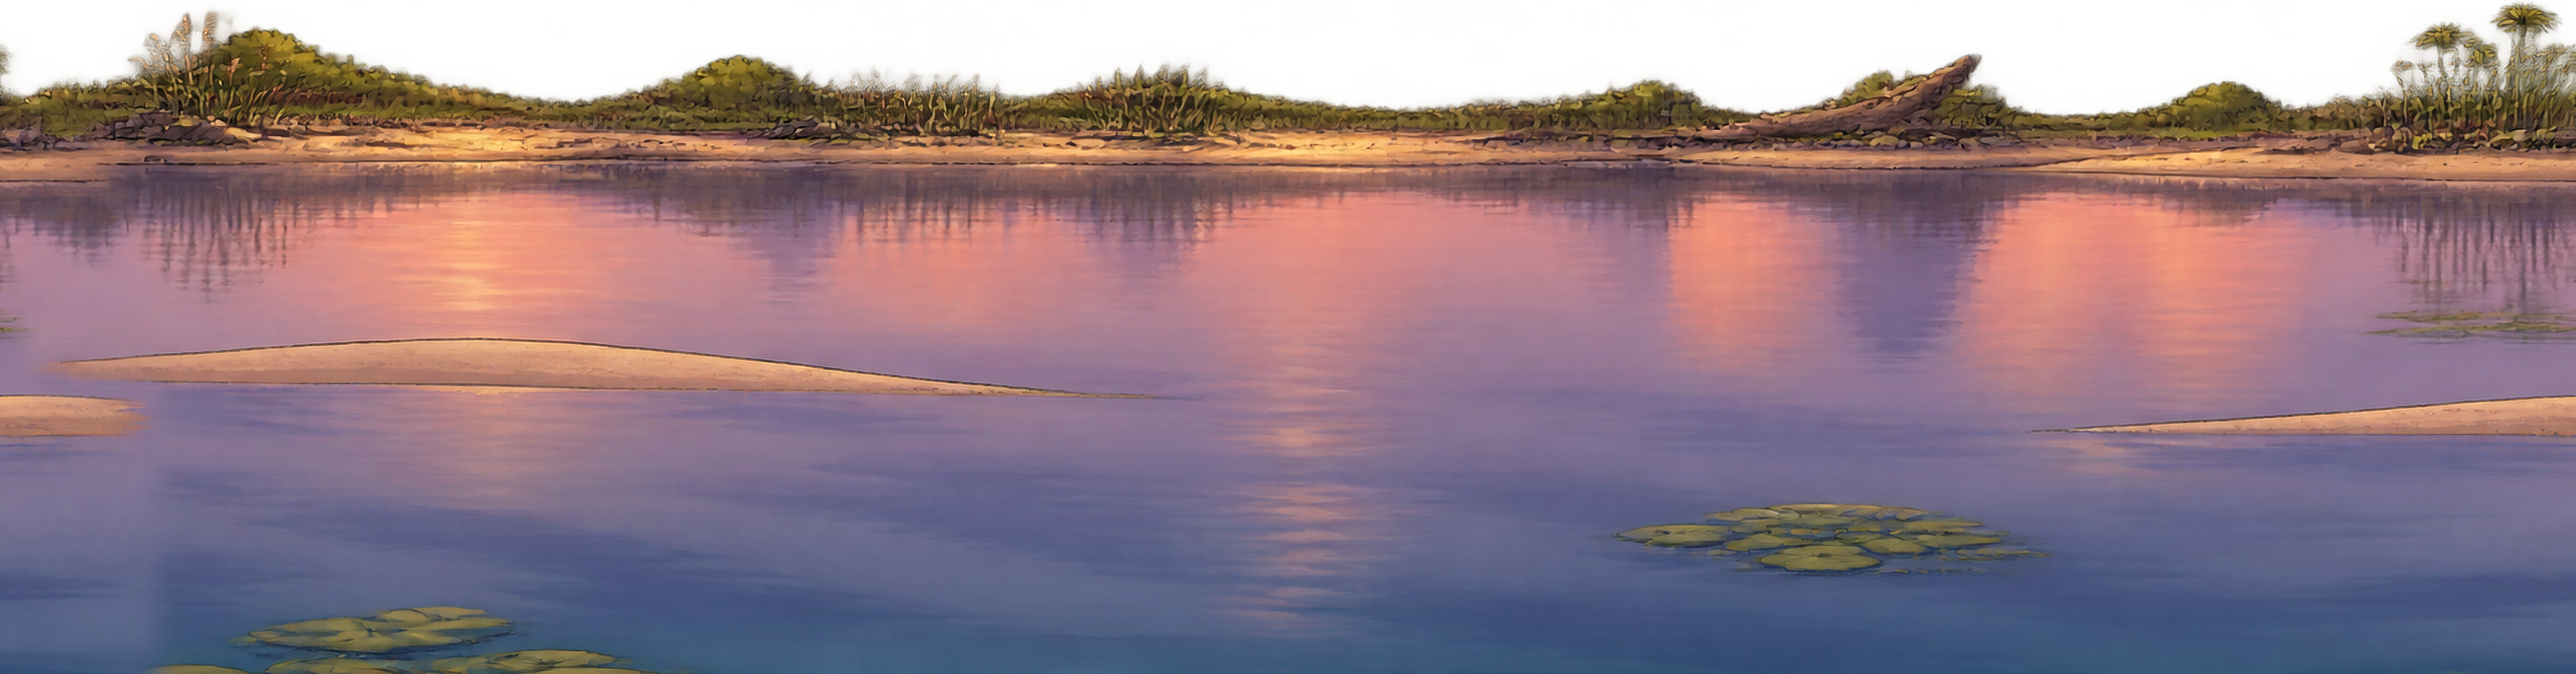
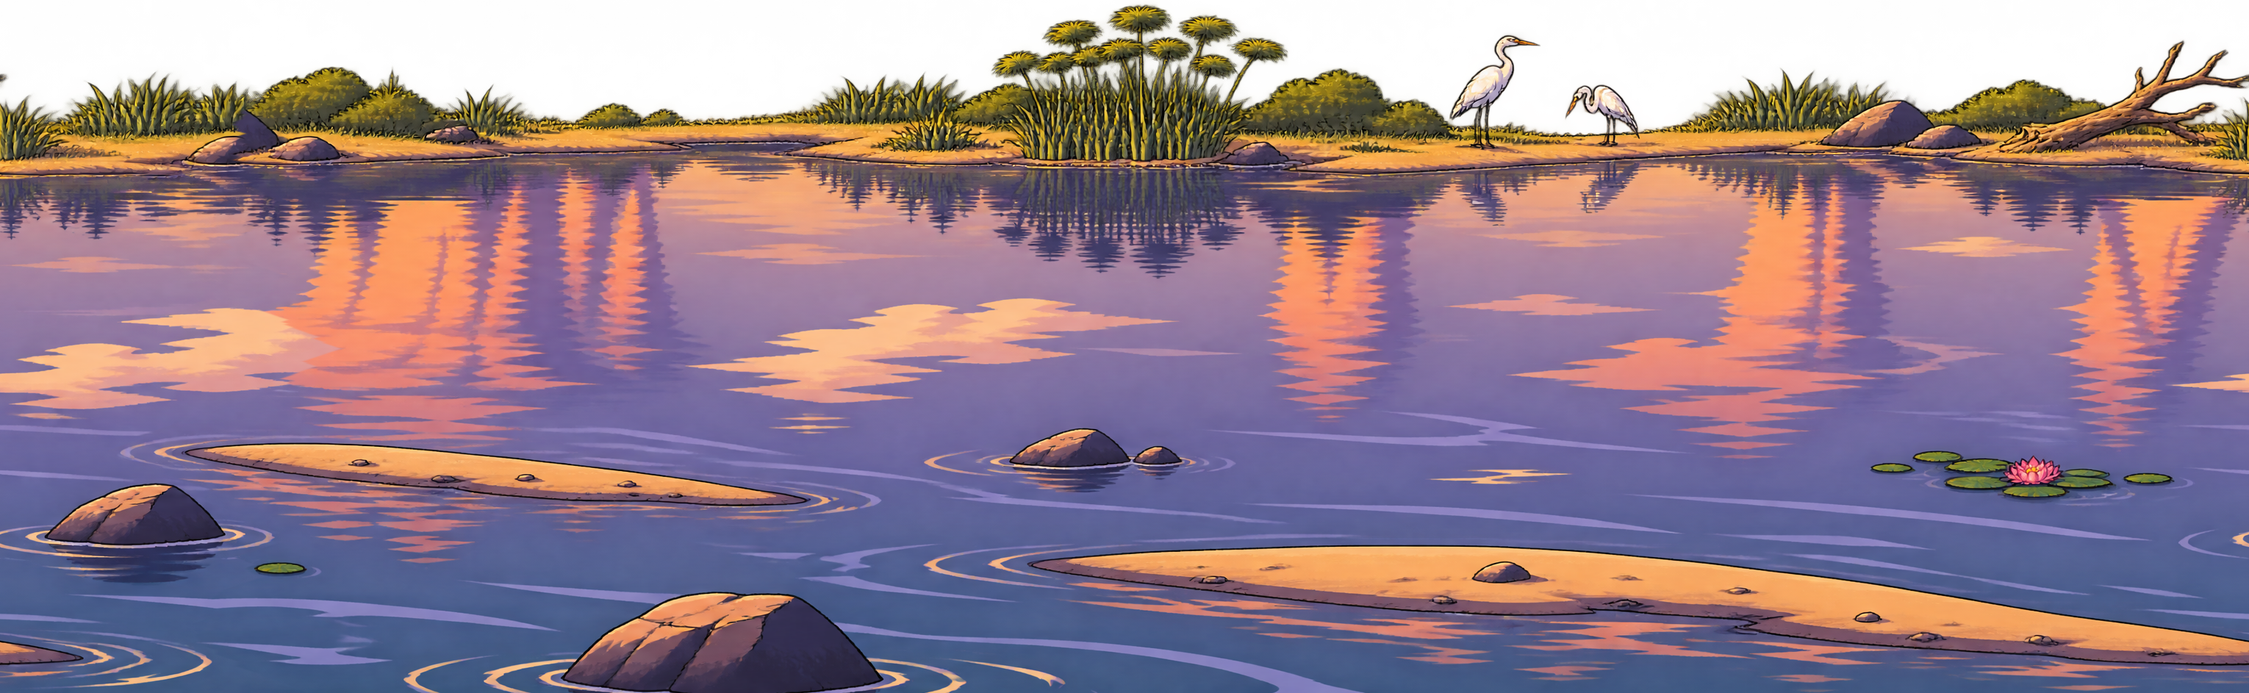
Blind round 20 (7.22 against 8.68, worse than round 19; its judge said of the throw "both fighters are hard black-inked flat cel sprites, while the plain behind them is a soft, lineless, slightly smeared painting; the dark blurred bush blobs … look out of focus beside the crisp sprites", "cream seed

diff --git a/New/tools/art/kie/world.py b/New/tools/art/kie/world.py
@@ -49,11 +49,12 @@ HEARTH_TIP, HEARTH_SLOPE, HEARTH_STONES = 0.672, 0.55, 0.8  # the hearth's logs:
 FLAME_K = 0.46  # the flames, of fire3's px: about 215 px across on the 308 px hearth
 FLAME_CELL = (308, 440)  # px, a frame of home_flames.png: the hearth's width
 FLAME_FOOT = 52  # px over the cell's bottom the flames stand: behind the logs, on the embers
-PLAIN_ENDS = 96  # px cut off each end of a wide painting (plain, river)
-PLAIN_ROWS = 600  # px of the plain kept under its horizon (SavannaView: the rest is under the screen)
+PLAIN_ENDS = 70  # px cut off each end of a wide painting (plain, river: the painter smears its two ends into level streaks)
+PLAIN_ROWS = 545  # px of the plain kept under its horizon (SavannaView: the rest is under the screen)
+PLAIN_JOIN = 600  # px of each end its join may wander in (a drawn bush or rock is one end's or the other's, whole)
+PLAIN_SLIPS = [((975, 1095), (3250, 3500), 235), ((905, 960), (3350, 3460), 100)]  # (rows, columns, columns to its left the grass is taken from)
 RIVER_ROWS = 760  # px of the river kept under its far waterline
-RIVER_ENDS = 40  # px cut off each of its ends (its join keeps clear of the streaks along the bank's ends)
-RIVER_STEER = [(610, 36), (706, 216)]  # (river2's row, the join's column from there down)
+RIVER_JOIN = 640
 FRONT_CELL = (440, 390)  # px: SavannaView.FRONT_PROP at 1.7 px a unit (dark shapes passing fast: no finer)
 
 
@@ -84,25 +85,32 @@ def fade(a: np.ndarray, b: int) -> np.ndarray:
     return np.concatenate([zone, a[:, b:-b]], axis=1)
 
 
-def seam(a: np.ndarray, b: int, feather=5.0, steer=()) -> np.ndarray:
+def seam(a: np.ndarray, b: int, feather=5.0, steer=(), reach=1, lean=None, match=0) -> np.ndarray:
     """Repeats left to right: the last `b` columns joined to the first `b` along the top-to-bottom path where the two
     differ least (a blade of grass is one end's or the other's, never a ghost of both). `steer`: (row, column) pairs:
-    from that row down the path runs at that column (open water: round a sandbar's tip, not through it)."""
+    from that row down the path runs at that column (open water: round a sandbar's tip, not through it). `reach`: the
+    columns the path may step aside in a row (drawn bushes and rocks stand in both ends: it winds between them).
+    `lean`: (row, column): from that row down the path is drawn toward that column (which end's things stand there).
+    `match`: the two ends' tones are brought to each other over this many px on each side of the path (the painter
+    left one end's grass lighter: a faint upright step where the picture repeats)."""
     end, start = a[:, -b:], a[:, :b]
-    cost = ((end - start) ** 2).sum(axis=-1) + 1e-5
-    lo, hi = int(b * 0.12), int(b * 0.88)
+    cost = ((end - start) ** 2).sum(axis=-1)
+    cost = ndi.maximum_filter(cost, size=(1, 9)) + 1e-5  # (clear of an object's outline, not along it)
+    if lean is not None:
+        cost[lean[0]:] += 0.004 * np.abs(np.arange(b) - lean[1])[None, :]
+    lo, hi = int(b * 0.04), int(b * 0.96)
     cost[:, :lo] += 10.0
     cost[:, hi:] += 10.0
     acc = cost.copy()
     for y in range(1, acc.shape[0]):
-        prev = acc[y - 1]
-        acc[y] += np.minimum(prev, np.minimum(np.roll(prev, 1), np.roll(prev, -1)))
+        acc[y] += ndi.minimum_filter1d(acc[y - 1], 2 * reach + 1, mode="nearest")
     path = np.zeros(acc.shape[0], np.int64)
     path[-1] = int(np.argmin(acc[-1]))
     for y in range(acc.shape[0] - 2, -1, -1):
         x = path[y + 1]
-        x0, x1 = max(x - 1, 0), min(x + 2, b)
+        x0, x1 = max(x - reach, 0), min(x + reach + 1, b)
         path[y] = x0 + int(np.argmin(acc[y, x0:x1]))
+    seam.path = path
     for row, column in steer:
         path[row:] = column
     m = (np.arange(b)[None, :] > path[:, None]).astype(np.float32)  # 1: the start's side
@@ -111,7 +119,17 @@ def seam(a: np.ndarray, b: int, feather=5.0, steer=()) -> np.ndarray:
         m[steer[0][0] - 40:] = ndi.gaussian_filter1d(m, feather, axis=0)[steer[0][0] - 40:]
     m = m[..., None]
     zone = end * (1 - m) + start * m
-    return np.concatenate([zone, a[:, b:-b]], axis=1)
+    out = np.concatenate([zone, a[:, b:-b]], axis=1)
+    if match:
+        near = np.clip(path[:, None] + np.arange(-30, 31)[None, :], 0, b - 1)
+        d = np.take_along_axis((end - start)[..., :3], near[..., None], axis=1).mean(axis=1)  # the step, row by row
+        d = np.clip(ndi.gaussian_filter1d(d, 20.0, axis=0), -0.12, 0.12)[:, None, :] * 0.5
+        out = np.roll(out, match, axis=1)  # (the path's left side is the picture's far end)
+        off = (np.arange(out.shape[1])[None, :] - (path[:, None] + match)) / float(match)
+        w = np.where(off >= 0, np.clip(1 - off, 0, 1) ** 2, -np.clip(1 + off, 0, 1) ** 2)[..., None]
+        out[..., :3] = np.clip(out[..., :3] + d * w * out[..., 3:4], 0.0, 1.0)
+        out = np.roll(out, -match, axis=1)
+    return out
 
 
 def top_edge(a: np.ndarray, share=0.5) -> int:
@@ -150,10 +168,23 @@ def plain() -> None:
     # from right behind the characters to the horizon: interlocking swells, a game trail winding away to one far
     # point, the far band in the last sun with its groves, its herds and a village, the nearer plain in the evening's
     # shade. `plain`, the one before it, was the far plain alone, seen behind three ridges)
-    a = load("plain2")[:, PLAIN_ENDS:-PLAIN_ENDS]  # (the painter smears a picture's two ends into level streaks)
+    # (blind round 20: "hard black-inked flat cel sprites, while the plain behind them is a soft, lineless, slightly
+    # smeared painting ... dark blurred bush blobs": "draw the ground directly behind the lane in the characters' own
+    # language (crisp contours, hard-edged shadow shapes, no soft smudges)": plain3, the same one ground drawn in the
+    # approved frame's ink and cel planes: bushes, rocks, termite mounds, small acacias, herds, a cattle kraal, its trail,
+    # all shrinking to the far sunlit band)
+    a = load("plain3")[:, PLAIN_ENDS:-PLAIN_ENDS]
+    # (two of the painter's slips near its right end, a rock and a red smudge half painted over the grass: the open
+    # grass beside each laid over it)
+    for rows, cols, dx in PLAIN_SLIPS:
+        mask = np.zeros(a.shape[:2], np.float32)
+        mask[rows[0]:rows[1], cols[0] - PLAIN_ENDS:cols[1] - PLAIN_ENDS] = 1.0
+        mask = ndi.gaussian_filter(mask, 9.0)[..., None]
+        a = a * (1 - mask) + np.roll(a, dx, axis=1) * mask
     first = top_edge(a, 0.004)  # (the acacias' crowns)
     line = top_edge(a, 0.97)  # the horizon
-    out = seam(a[first - 8:line + PLAIN_ROWS], 320, feather=36.0)  # (soft land: the swells' shade melts across)
+    # (low down the join keeps to the right: the right end's bushes whole, the left end's aloe, which they would cut, out)
+    out = seam(a[first - 8:line + PLAIN_ROWS], PLAIN_JOIN, feather=2.5, reach=3, lean=(line - first + 8 + 320, PLAIN_JOIN - 34), match=300)
     save(out, OUT / "far_hills.png")
     print("  horizon at row %d of it" % (line - first + 8))
 
@@ -162,12 +193,13 @@ def river() -> None:
     # (blind round 19, under the vine: "the river is the cheapest element: reflections as regular white horizontal
     # dashes and banded blocks, which read as a procedural shader rather than paint": river2, the river painted: its
     # far bank of reeds, papyrus and sand, the dusk mirrored soft and broken, sandbars and lily pads lying across it)
-    a = load("river2")[:, RIVER_ENDS:-RIVER_ENDS]
+    # (blind round 20: "a soft pink-lilac gradient with blurred reflections and no drawn form ... the part nearest the
+    # camera is the blurriest": river3, drawn as cel water: crisp mirrored shapes cut into slivers, ripple rings,
+    # sandbars, wet rocks, lily pads, egrets on its far bank)
+    a = load("river3")[:, PLAIN_ENDS:-PLAIN_ENDS]
     first = top_edge(a, 0.004)  # (the papyrus heads)
     water = top_edge(a, 0.995)  # the first row that is water from side to side
-    # (a sandbar's tip lies in each end: the join passes left of the left one's, then right of the right one's)
-    steer = [(row - first + 8, column) for row, column in RIVER_STEER]
-    out = seam(a[first - 8:water + RIVER_ROWS], 256, feather=16.0, steer=steer)
+    out = seam(a[first - 8:water + RIVER_ROWS], RIVER_JOIN, feather=2.5, reach=3)
     save(out, OUT / "river.png")
     print("  water from row %d of it" % (water - first + 8))
 
@@ -350,16 +382,18 @@ def door() -> None:
     print("home_hut.png: doorway %d px repainted, rows %d to %d" % (int(inside.sum()), ys.min(), ys.max()))
 
 
+IMPACT_NOSE = 44  # px from the crescent's nose to the point of contact
+
+
 def impact() -> None:
     """A blow's burst (fx_impact.png: Fx.hit_spark): three painted frames in a row (the contact, the burst, the
     break-up; the blow goes right), each in a cell of the same size with the point of contact, the middle of its
     white-hot heart, at the same place (printed: Fx.IMPACT_CELL, IMPACT_AT), at half the painting's size."""
-    a = load("impact")
-    # blind round 13 ("in cold flat blue/white ... give it a warm white/gold core from the scene's palette"): its blue
-    # turned to the sunset's gold and amber (red and blue exchanged where blue leads: pale blue to pale gold, deep blue
-    # to orange; its white heart, its ink and its gold tips as painted)
-    cold = a[..., 2] > a[..., 0]
-    a[..., 0], a[..., 2] = np.where(cold, a[..., 2], a[..., 0]), np.where(cold, a[..., 0], a[..., 2])
+    # blind round 21 ("a flat white eight-point star with orange wedges, clip-art comic style, and it hides the ring
+    # and the contact point": "a painted directional impact (slash arc, dust and debris in the scene's palette)"):
+    # impact2: a white-hot crescent whose nose is the contact, opening the blow's way, sparks and chips flying on,
+    # a puff of the path's dust in the dusk's cream and lilac. The contact: a little inside its nose.
+    a = load("impact2")
     w3 = a.shape[1] // 3
     frames = []
     for i in range(3):
@@ -368,7 +402,9 @@ def impact() -> None:
         rgb = f[..., :3] / np.maximum(al[..., None], 1e-4)
         lab, n = ndi.label((al > 0.9) & (rgb.min(axis=2) > 0.93))
         heart = 1 + int(np.argmax(ndi.sum(np.ones_like(al), lab, np.arange(1, n + 1))))
-        cy, cx = ndi.center_of_mass(lab == heart)
+        cy = ndi.center_of_mass(lab == heart)[0]
+        band = al[int(cy) - 12:int(cy) + 12].max(axis=0)
+        cx = int(np.nonzero(band > 0.5)[0].min()) + IMPACT_NOSE
         ys, xs = np.nonzero(al > 0.03)
         frames.append((f, int(round(cx)), int(round(cy)), xs.min(), xs.max() + 1, ys.min(), ys.max() + 1))
     left = max(cx - x0 for _, cx, cy, x0, x1, y0, y1 in frames) + 4
